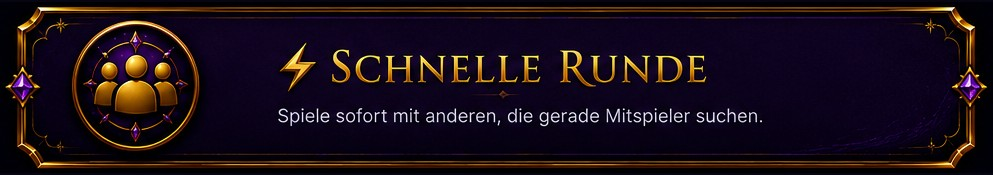
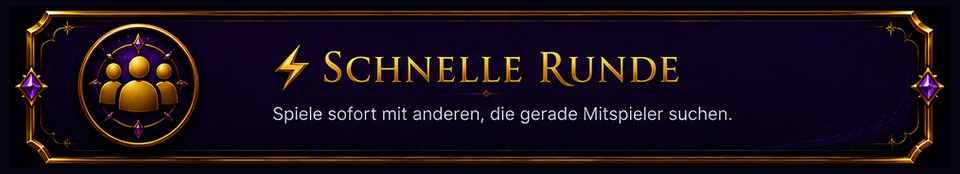
Startseite: einheitliche Groessenverhaeltnisse fuer alle Artwork-Elemente
Die Zuschnitte hatten unterschiedliche Inhaltsbreiten (735-993px), dadurch
wirkten die Rahmen verschieden gross. Jetzt werden alle Elemente auf
dieselbe Inhaltsbreite (940px auf 960er-Canvas) skaliert. Layout: auf dem
Handy alle Kacheln in voller Breite (Listen-Design, gleiche Rahmenbreite
wie Name/Statistik-Boxen), ab 640px zweispaltig; gleicher Umbruchpunkt
fuer Kacheln und Boxen. Overlay-Positionen (Avatar, Eingabe, Statistik-
werte) auf die neuen Canvases umgerechnet. In Preview (Handy + Tablet)
und Simulator verifiziert.

Changed region(s): [[0.0, 0.0287, 1.0, 0.977], [0.2812, 0.2586, 0.7188, 0.5172], [0.2812, 0.6034, 0.7812, 0.7184]]

diff --git a/index.html b/index.html
@@ -545,12 +545,13 @@
 
   /* Aktions-Karten mit überstehendem Emblem */
   .home-actions {
-    /* Artwork-Kacheln: Embleme sind im Bild integriert (kein Ueberstand mehr),
-       daher enge Reihenabstaende wie im Design-Mockup. */
-    display: grid; grid-template-columns: repeat(2, 1fr); gap: 12px 10px;
+    /* Artwork-Kacheln (Querformat, Emblem links = Listen-Design): auf dem
+       Handy volle Breite -> gleiche Rahmenbreite wie Name/Statistik-Boxen.
+       Ab Tablet-Breite zweispaltig (Schnelle Runde bleibt ueber beide). */
+    display: grid; grid-template-columns: 1fr; gap: 12px;
     margin: 26px 0 16px;
   }
-  @media (min-width: 640px) { .home-actions { grid-template-columns: repeat(4, 1fr); } }
+  @media (min-width: 640px) { .home-actions { grid-template-columns: repeat(2, 1fr); gap: 12px 10px; } }
   .act-card {
     position: relative; display: flex; flex-direction: column; align-items: center; text-align: center;
     background: linear-gradient(180deg, #3a2566, #221043);
@@ -592,8 +593,9 @@
     color: var(--goldsoft); font-size: .62rem; opacity: .85; }
 
   /* Name + Statistik */
-  .home-row { display: grid; grid-template-columns: 1fr 1fr; gap: 10px; margin: 14px 0; }
-  @media (max-width: 470px) { .home-row { grid-template-columns: 1fr; } }
+  /* Gleicher Umbruchpunkt wie .home-actions -> einheitliche Breiten. */
+  .home-row { display: grid; grid-template-columns: 1fr; gap: 12px; margin: 14px 0; }
+  @media (min-width: 640px) { .home-row { grid-template-columns: 1fr 1fr; gap: 12px 10px; } }
 
   /* Artwork-Boxen (Name/Statistik): Rahmen, Labels, Stift und Avatar-Ring
      stecken in der Grafik; nur die dynamischen Teile liegen als Overlays
@@ -607,24 +609,24 @@
   }
   .art-box .ab-bg { display: block; width: 100%; height: auto; }
   .name-box.art-box .nb-avatar {
-    position: absolute; left: 6.3%; top: 50%; transform: translateY(-50%);
+    position: absolute; left: 6.6%; top: 50%; transform: translateY(-50%);
     width: 23%; height: auto; aspect-ratio: 1 / 1;
     border: none; background: none;
   }
   .name-box.art-box #name-input {
-    position: absolute; left: 33%; top: 42%; width: 44%; height: 36%;
+    position: absolute; left: 33.6%; top: 42.2%; width: 43.3%; height: 35%;
     border: none; background: transparent; color: var(--text);
     font-size: 6.2cqw; font-weight: 600; padding: 0;
   }
   .name-box.art-box #name-input:focus { outline: none; }
   .stat-box.art-box .sb-v {
-    position: absolute; top: 72.5%; transform: translate(-50%, -50%);
+    position: absolute; top: 72.1%; transform: translate(-50%, -50%);
     color: #fff; font-weight: 800; font-variant-numeric: tabular-nums;
     font-size: 5.6cqw; line-height: 1; margin: 0;
   }
-  .stat-box.art-box #stat-games { left: 33.3%; }
-  .stat-box.art-box #stat-wins  { left: 47.6%; }
-  .stat-box.art-box #stat-rate  { left: 63.1%; }
+  .stat-box.art-box #stat-games { left: 32.3%; }
+  .stat-box.art-box #stat-wins  { left: 47.5%; }
+  .stat-box.art-box #stat-rate  { left: 64.1%; }
   .home-box {
     display: flex; align-items: center; gap: 12px; padding: 12px 14px;
     background: linear-gradient(180deg, #2e1d52, #1c0f3a);
@@ -1409,23 +1411,23 @@
       <div class="home-actions">
         <button class="act-card act-imgcard" id="act-solo" type="button"
                 aria-label="Solo-Spiel fortsetzen">
-          <img class="act-img" src="./lobby/card-solo.jpg?v=2" alt="">
+          <img class="act-img" src="./lobby/card-solo.jpg?v=3" alt="">
         </button>
         <button class="act-card act-imgcard" id="act-comp" type="button"
                 aria-label="Gegen Computer – allein üben gegen Computer-Gegner">
-          <img class="act-img" src="./lobby/card-comp.jpg?v=3" alt="">
+          <img class="act-img" src="./lobby/card-comp.jpg?v=4" alt="">
         </button>
         <button class="act-card act-imgcard" id="act-online" type="button"
                 aria-label="Neues Spiel (Online) – erstelle ein neues Online-Spiel">
-          <img class="act-img" src="./lobby/card-online.jpg?v=2" alt="">
+          <img class="act-img" src="./lobby/card-online.jpg?v=3" alt="">
         </button>
         <button class="act-card act-imgcard" id="act-join" type="button"
                 aria-label="Beitreten – tritt einem Spiel mit Spiel-Code bei">
-          <img class="act-img" src="./lobby/card-join.jpg?v=3" alt="">
+          <img class="act-img" src="./lobby/card-join.jpg?v=4" alt="">
         </button>
         <button class="act-card act-wide act-imgcard" id="act-quick" type="button"
                 aria-label="Schnelle Runde – spiele sofort mit anderen, die gerade Mitspieler suchen">
-          <img class="act-img" src="./lobby/card-quick.jpg?v=3" alt="">
+          <img class="act-img" src="./lobby/card-quick.jpg?v=4" alt="">
         </button>
       </div>
 
@@ -1434,12 +1436,12 @@
         <!-- Artwork-Boxen: Grafik als Hintergrund (Label/Stift/Ring eingebacken),
              dynamische Teile (Avatar, Eingabe, Werte) liegen als Overlays darauf. -->
         <div class="home-box name-box art-box">
-          <img class="ab-bg" src="./lobby/box-name.jpg?v=1" alt="">
+          <img class="ab-bg" src="./lobby/box-name.jpg?v=2" alt="">
           <button class="nb-avatar" id="home-avatar" type="button" aria-label="Profilbild"><img src="avatars/av01.png?v=7" alt=""></button>
           <input id="name-input" type="text" maxlength="20" placeholder="Dein Name" autocomplete="off" aria-label="Dein Name">
         </div>
         <div class="home-box stat-box art-box">
-          <img class="ab-bg" src="./lobby/box-stat.jpg?v=1" alt="">
+          <img class="ab-bg" src="./lobby/box-stat.jpg?v=2" alt="">
           <span class="sb-v" id="stat-games">–</span>
           <span class="sb-v" id="stat-wins">–</span>
           <span class="sb-v" id="stat-rate">–</span>
